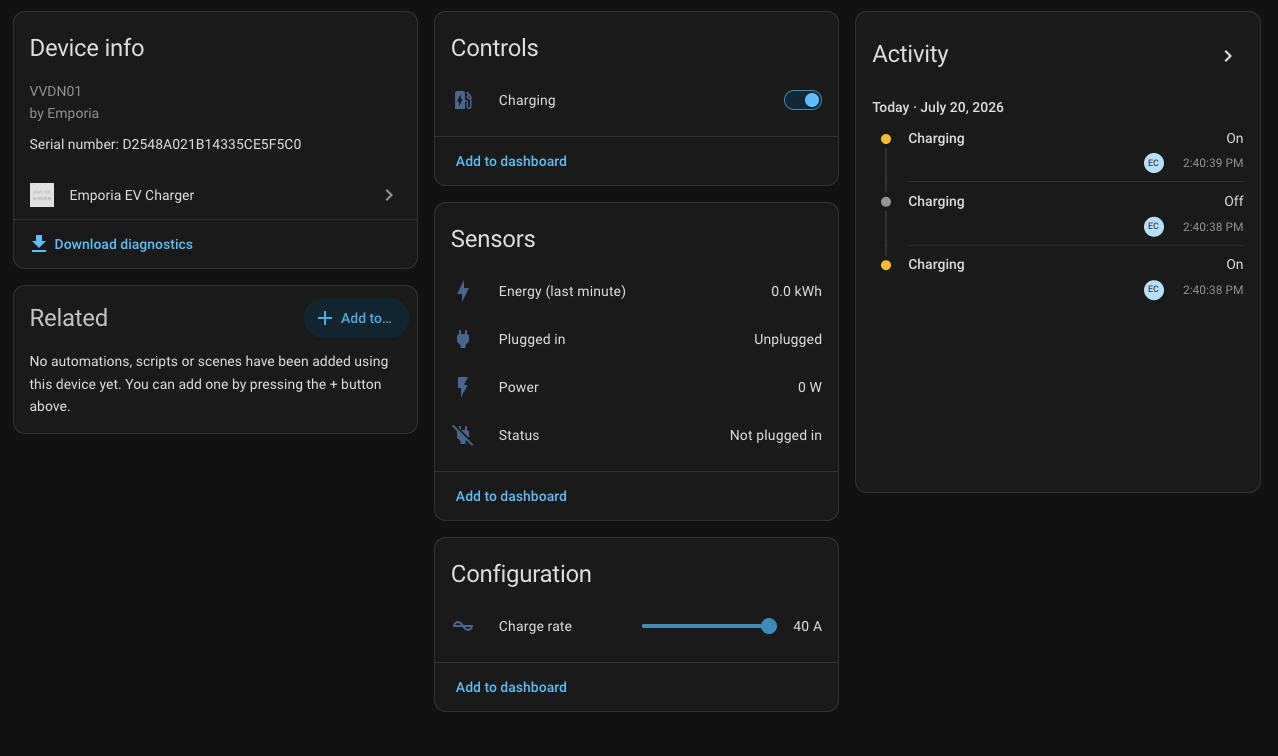
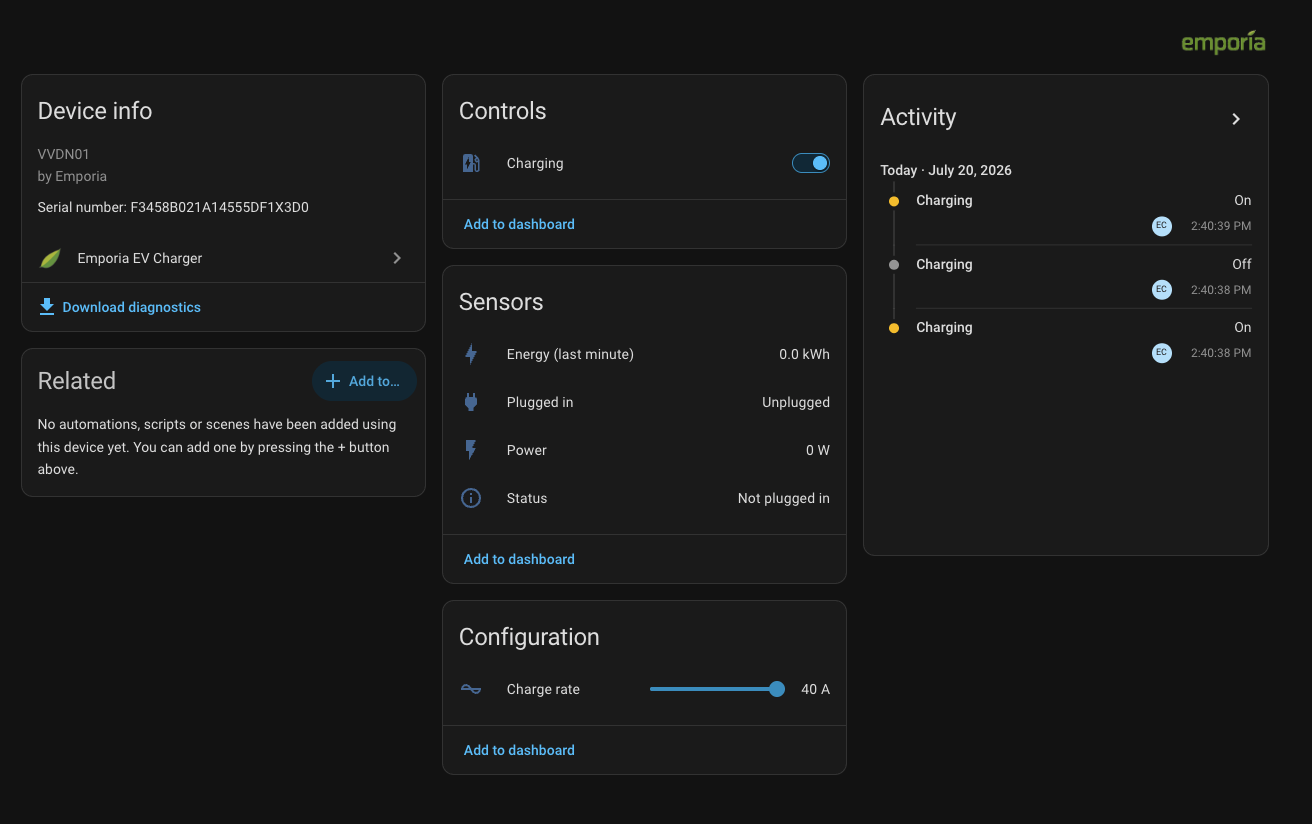
feat(client): retry transient connection blips; README: move screenshot to top
- Client _request now retries EmporiaConnectionError up to 3x with linear
  backoff (auth/rate-limit still surface immediately). Absorbs flaky DNS/IPv6
  blips so the first poll after setup succeeds — no 'Failed setup, will retry'
  banner and no transient 'unavailable' logbook entry on install. 3 new tests.
- README: updated device screenshot (info status icon), moved it above Contents,
  removed the Screenshots section + the now-unused options.png.

diff --git a/tests/library/test_client.py b/tests/library/test_client.py
@@ -358,3 +358,69 @@ async def test_timeout_maps_to_connectionerror() -> None:
             )
             with pytest.raises(EmporiaConnectionError):
                 await client.async_get_charger_status()
+
+
+# ---------------------------------------------------------------------------
+# Transient-connection retry (_request bounded retry)
+# ---------------------------------------------------------------------------
+
+
[email redacted]
+async def test_request_retries_transient_then_succeeds(monkeypatch) -> None:  # type: ignore[no-untyped-def]
+    """A transient connection blip on the first attempt is retried and succeeds.
+
+    Simulates flaky DNS/IPv6: the first GET fails at the transport layer, the
+    second returns the real payload. async_get_charger_status must succeed
+    without surfacing an error (so the first poll never trips 'Failed setup').
+    """
+    # Keep the test instant: no real backoff sleep.
+    monkeypatch.setattr(
+        "custom_components.emporia_ev.client.client.asyncio.sleep",
+        AsyncMock(return_value=None),
+    )
+    payload = _load("device_status.json")
+    async with _session() as session:
+        client = EmporiaClient(session, _stub_auth())
+        with aioresponses() as mocked:
+            # 1st attempt: transport failure. 2nd attempt: success.
+            mocked.get(f"{BASE_URL}/customers/devices/status", exception=TimeoutError())
+            mocked.get(
+                f"{BASE_URL}/customers/devices/status",
+                status=200,
+                payload=payload,
+                headers=_content_length_header(payload),
+            )
+            status = await client.async_get_charger_status()
+    assert "1111111111" in status  # recovered on retry
+
+
[email redacted]
+async def test_request_exhausts_retries_raises_connection_error(monkeypatch) -> None:  # type: ignore[no-untyped-def]
+    """If every attempt fails transiently, the connection error finally surfaces."""
+    monkeypatch.setattr(
+        "custom_components.emporia_ev.client.client.asyncio.sleep",
+        AsyncMock(return_value=None),
+    )
+    async with _session() as session:
+        client = EmporiaClient(session, _stub_auth())
+        with aioresponses() as mocked:
+            for _ in range(3):  # _MAX_REQUEST_ATTEMPTS
+                mocked.get(f"{BASE_URL}/customers/devices/status", exception=TimeoutError())
+            with pytest.raises(EmporiaConnectionError):
+                await client.async_get_charger_status()
+
+
[email redacted]
+async def test_request_does_not_retry_auth_error(monkeypatch) -> None:  # type: ignore[no-untyped-def]
+    """A 401 surfaces immediately as AuthError — it is NOT retried."""
+    sleep_mock = AsyncMock(return_value=None)
+    monkeypatch.setattr(
+        "custom_components.emporia_ev.client.client.asyncio.sleep", sleep_mock
+    )
+    async with _session() as session:
+        client = EmporiaClient(session, _stub_auth())
+        with aioresponses() as mocked:
+            mocked.get(f"{BASE_URL}/customers/devices/status", status=401)
+            with pytest.raises(AuthError):
+                await client.async_get_charger_status()
+    sleep_mock.assert_not_called()  # no retry backoff happened

diff --git a/custom_components/emporia_ev/client/client.py b/custom_components/emporia_ev/client/client.py
@@ -16,6 +16,7 @@ Key design notes (from live capture, 2026-07-20):
 
 from __future__ import annotations
 
+import asyncio
 from typing import Any
 
 import aiohttp
@@ -25,6 +26,14 @@ from .errors import AuthError, EmporiaConnectionError, RateLimitError
 from .models import Charger, ChargerStatus, Vehicle
 
 BASE_URL = "https://api.emporiaenergy.com"
+
+# Bounded retry for TRANSIENT connection blips (flaky DNS/IPv6 to the Emporia
+# cloud). A momentary connect failure is retried a couple of times with short
+# backoff so it never surfaces as a hard error — e.g. so the first poll after
+# setup doesn't trip HA's "Failed setup, will retry" banner. Auth (401) and
+# rate-limit (429) errors are NOT retried here; they surface immediately.
+_MAX_REQUEST_ATTEMPTS = 3
+_RETRY_BACKOFF_SECONDS = 1.0
 
 
 def _parse_retry_after(headers: Any) -> float | None:
@@ -201,6 +210,31 @@ class EmporiaClient:
         await self._request("PUT", "devices/evcharger", json=body)
 
     async def _request(
+        self,
+        method: str,
+        path: str,
+        *,
+        json: dict[str, Any] | None = None,
+    ) -> dict[str, Any]:
+        """Authenticated request with bounded retry on transient connection blips.
+
+        Retries only ``EmporiaConnectionError`` (flaky DNS/IPv6 to the cloud) up
+        to ``_MAX_REQUEST_ATTEMPTS`` with linear backoff, so a momentary connect
+        failure never surfaces as a hard error (e.g. so the first poll after
+        setup doesn't trip HA's "Failed setup, will retry" banner or leave an
+        ``unavailable`` entry in the log). ``AuthError`` and ``RateLimitError``
+        propagate immediately without retry.
+        """
+        for attempt in range(_MAX_REQUEST_ATTEMPTS):
+            try:
+                return await self._request_once(method, path, json=json)
+            except EmporiaConnectionError:
+                if attempt == _MAX_REQUEST_ATTEMPTS - 1:
+                    raise
+                await asyncio.sleep(_RETRY_BACKOFF_SECONDS * (attempt + 1))
+        raise EmporiaConnectionError(f"{method} {path} exhausted retries")
+
+    async def _request_once(
         self,
         method: str,
         path: str,

diff --git a/README.md b/README.md
@@ -8,11 +8,12 @@ draw and status, and wire everything into your automations.
 > connects to `api.emporiaenergy.com` using the same AWS Cognito credentials
 > as the official app. A working internet connection is required.
 
+![Emporia EV Charger device page in Home Assistant — Controls (Charging), Sensors (Energy, Plugged in, Power, Status), Charge rate slider, and Activity feed](docs/images/device-page.png)
+
 ---
 
 ## Contents
 
-- [Screenshots](#screenshots)
 - [Requirements](#requirements)
 - [Installation (HACS)](#installation-hacs)
 - [Configuration](#configuration)
@@ -23,19 +24,6 @@ draw and status, and wire everything into your automations.
 - [Reauthorisation](#reauthorisation)
 - [Multiple accounts](#multiple-accounts)
 - [Troubleshooting](#troubleshooting)
-
----
-
-## Screenshots
-
-Each charger appears as its own device with controls, sensors, and an activity
-history:
-
-![Emporia EV Charger device page in Home Assistant — Controls (Charging), Sensors (Energy, Plugged in, Power, Status), Charge rate slider, and Activity feed](docs/images/device-page.png)
-
-Polling and charging behaviour are configurable from the integration's options:
-
-![Emporia EV Charger options dialog — adaptive polling toggle, idle and charging poll intervals, and default charge rate](docs/images/options.png)
 
 ---
 